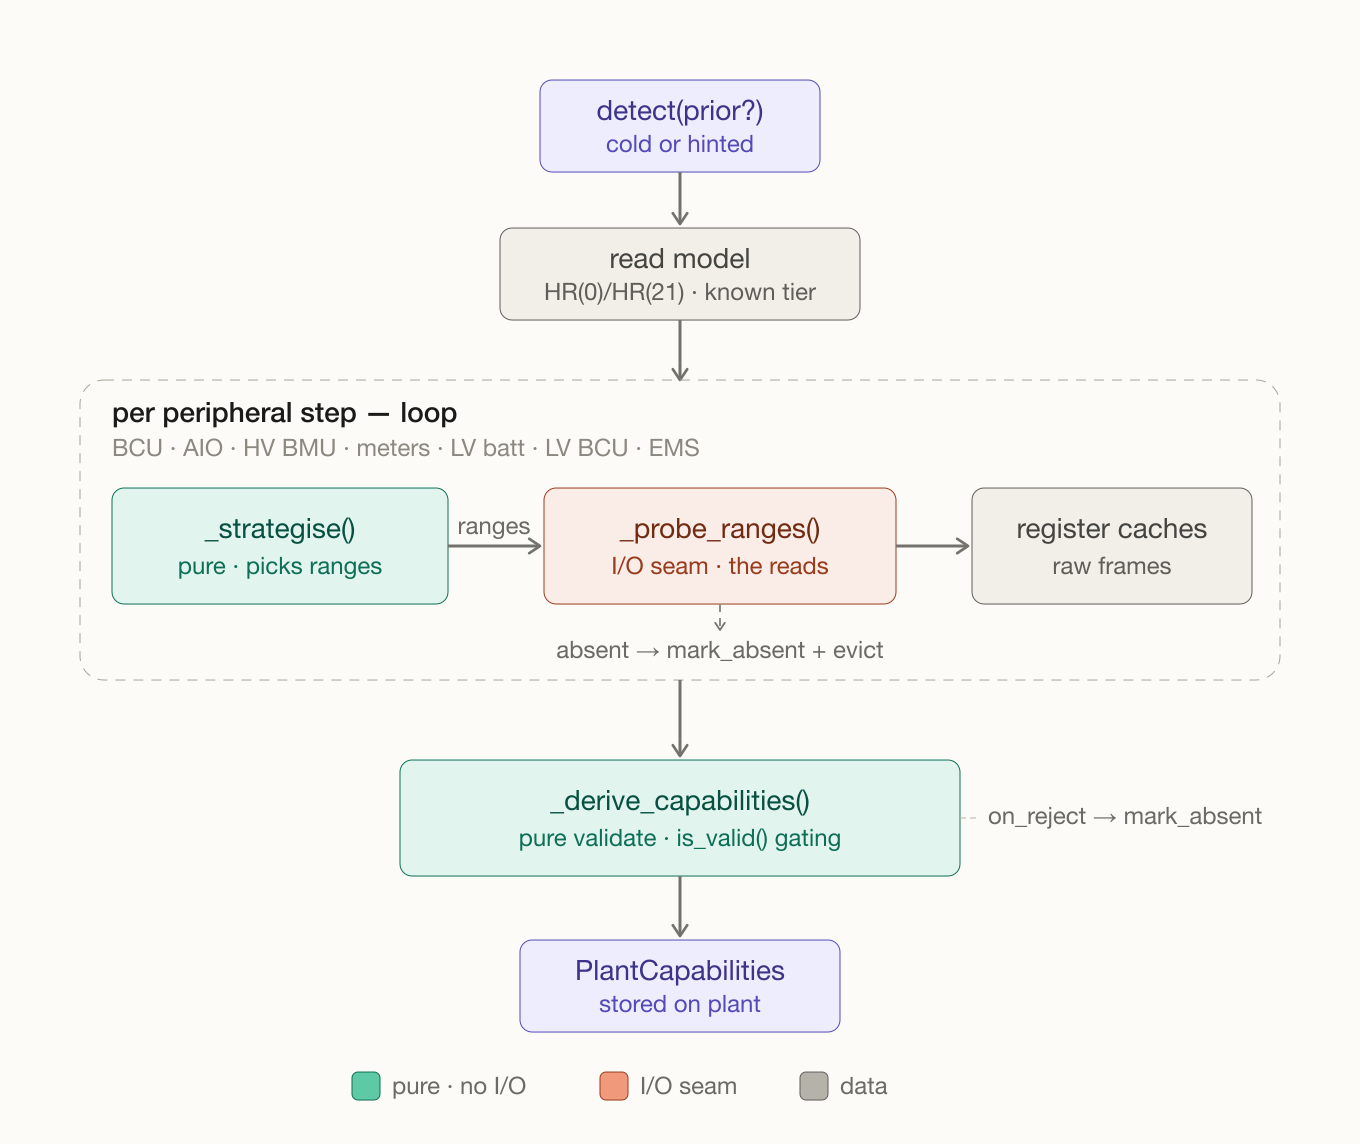
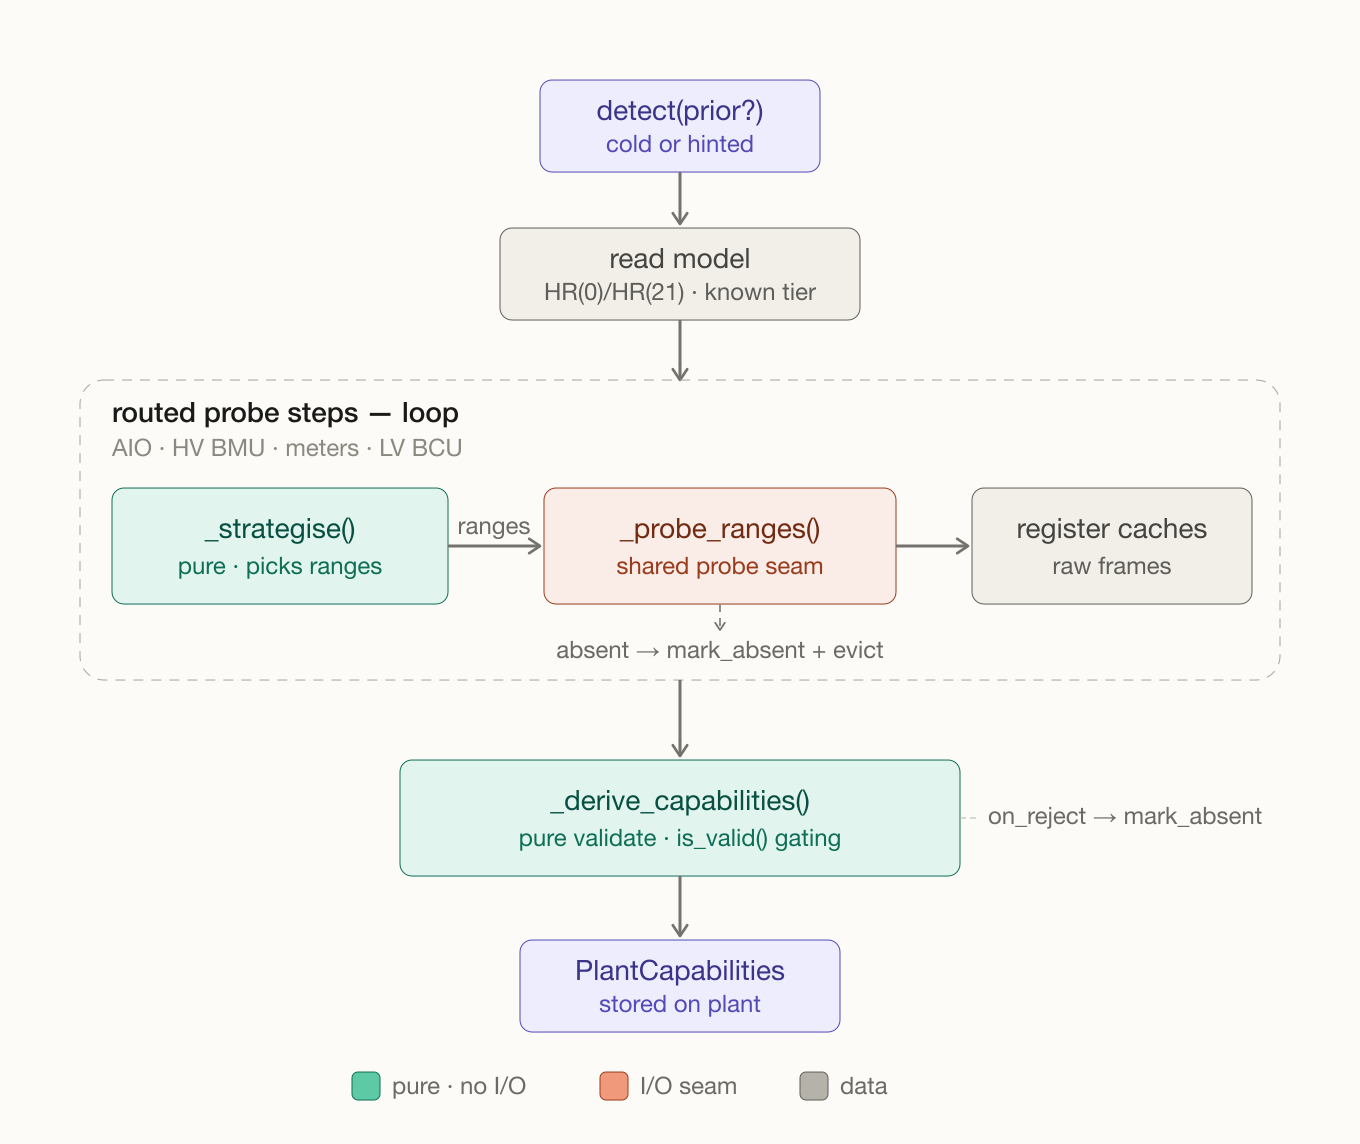
docs: scope _probe_ranges as the shared seam for routed probe steps only
Codex review (#348): the prose and loop diagram overstated _probe_ranges() as
the single I/O seam. Only the _strategise-routed steps (AIO, HV BMU, meters,
LV BCU) go through it; the model read, BCU stack discovery, LV-battery
enumeration and the EMS rollup check still touch the wire imperatively.

Reframes the bullet and before/after prose, expands the admonition to name all
four imperative reads, and corrects the loop diagram (step list, seam label,
<desc>). Re-rendered the PNG.

Changed region(s): [[0.0618, 0.3365, 0.525, 0.3977], [0.4324, 0.4895, 0.6176, 0.5201]]

diff --git a/docs/architecture.md b/docs/architecture.md
@@ -142,13 +142,13 @@ After resolving the model, `detect()` runs a loop over the peripheral steps (BCU
 ![The detect() strategise, probe and derive loop](img/detect-strategise-probe-derive.png)
 
 - **`_strategise(caps, prior, step)`** — pure policy. Given the model and an optional `prior` hint, it returns the `ProbeRange`s to read for that step. Cold (no hint) yields a broad candidate sweep; hinted restricts to the addresses `prior` already knows. No I/O, so it is exhaustively unit-testable.
-- **`_probe_ranges(ranges)`** — the single I/O seam. It issues each read at its tier (fast `probe_timeout` for speculative probes, full `timeout` for known devices) and, on a probe that does not answer, calls `mark_absent()` and evicts the stale cache entry.
+- **`_probe_ranges(ranges)`** — the shared I/O seam for the `_strategise`-routed probe steps (AIO modules, HV BMUs, meters, LV BCU). It issues each read at its tier (fast `probe_timeout` for speculative probes, full `timeout` for known devices) and, on a probe that does not answer, calls `mark_absent()` and evicts the stale cache entry.
 - **`_derive_capabilities(caches, prior, on_reject)`** — pure validation. It reads the now-populated register caches, applies each device's `is_valid()` gate, and builds the authoritative `PlantCapabilities`. Rejections thread back through `on_reject` to `mark_absent()`.
 
 This split is what makes the offline `Plant.from_caches()` path possible (#268): `_derive_capabilities` is the same pure function whether the caches came from a live probe or a saved register dump.
 
 !!! note
-    Two steps stay imperative rather than routing through `_strategise`: the initial model read, and LV-battery enumeration (which carries the cold-start splice-guard re-probe, #233/#289). The loop above shows the dominant pattern, not every step literally.
+    Several reads still touch the wire outside `_probe_ranges`: the initial model read, BCU stack discovery, LV-battery enumeration, and the EMS rollup cross-check (BCU and LV-battery probing carry the cold-start splice-guard re-probe, #233/#289). The loop above shows the shared-seam pattern that the AIO, HV-BMU, meter and LV-BCU steps follow — not every read in `detect()`.
 
 #### Why three functions
 
@@ -156,7 +156,7 @@ Before #345, `detect()` fanned out to a per-device-type helper for each peripher
 
 ![Before and after: per-type helpers transposed into per-concern functions](img/detect-refactor-before-after.png)
 
-The refactor transposes that grid: instead of five helpers each doing all three jobs, there is one function per job, each spanning every device type. Candidate generation lives once (shared by `_strategise` and `_derive_capabilities`), all I/O lives in one seam, and validation lives in one place — so a change to, say, the absent-marking policy is a one-line edit rather than a five-site sweep.
+The refactor transposes that grid: instead of five helpers each doing all three jobs, there is one function per job. Candidate generation lives once (shared by `_strategise` and `_derive_capabilities`) and validation lives once in `_derive_capabilities`, both spanning every device type; the probe I/O routes through `_probe_ranges` for the AIO, HV-BMU, meter and LV-BCU steps. A change to a candidate range or a validation gate is now a one-site edit rather than a five-site sweep.
 
 ## Plant data model
 